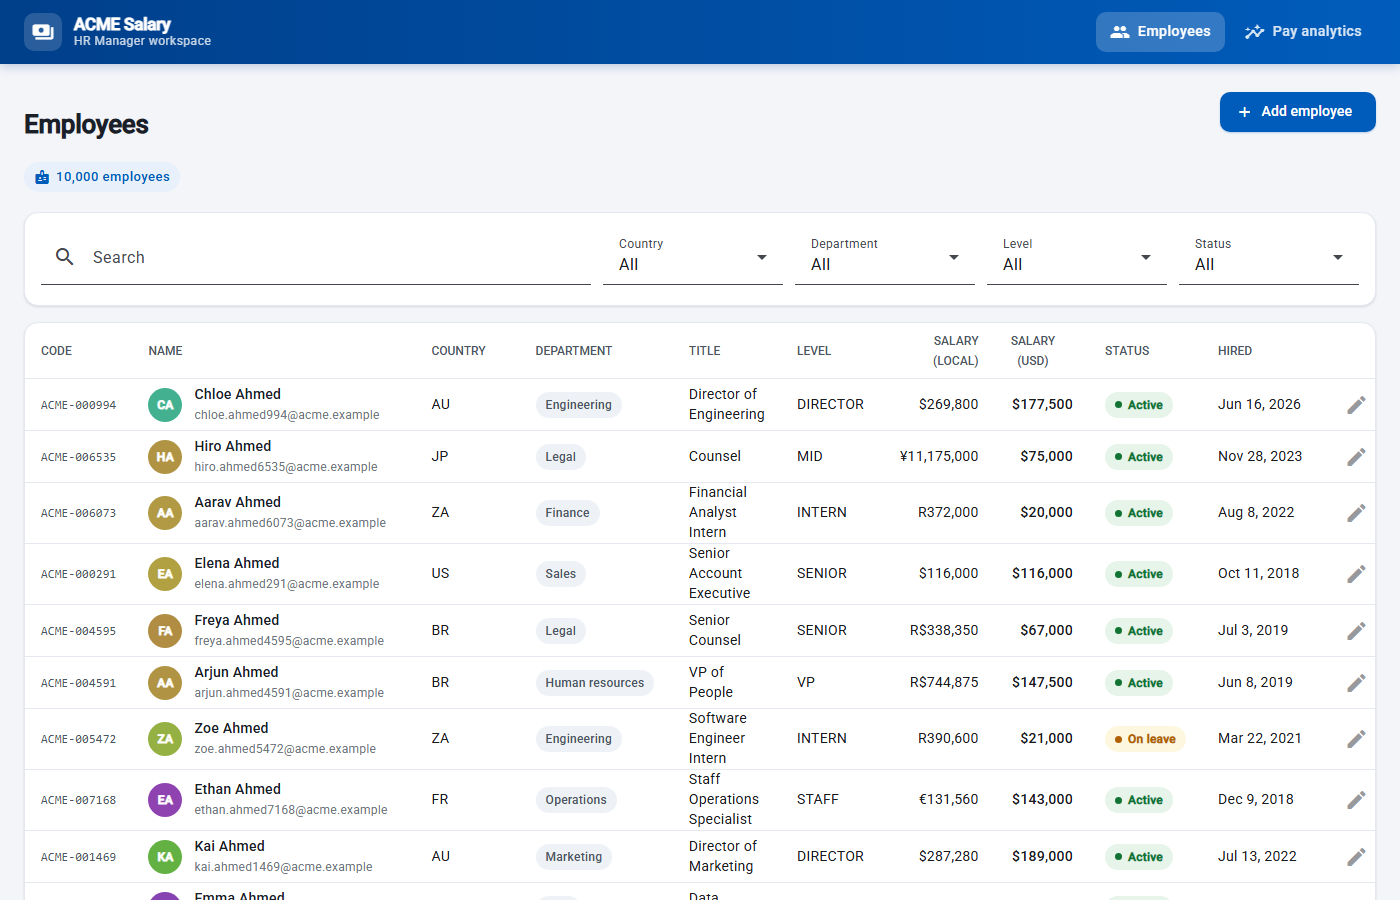
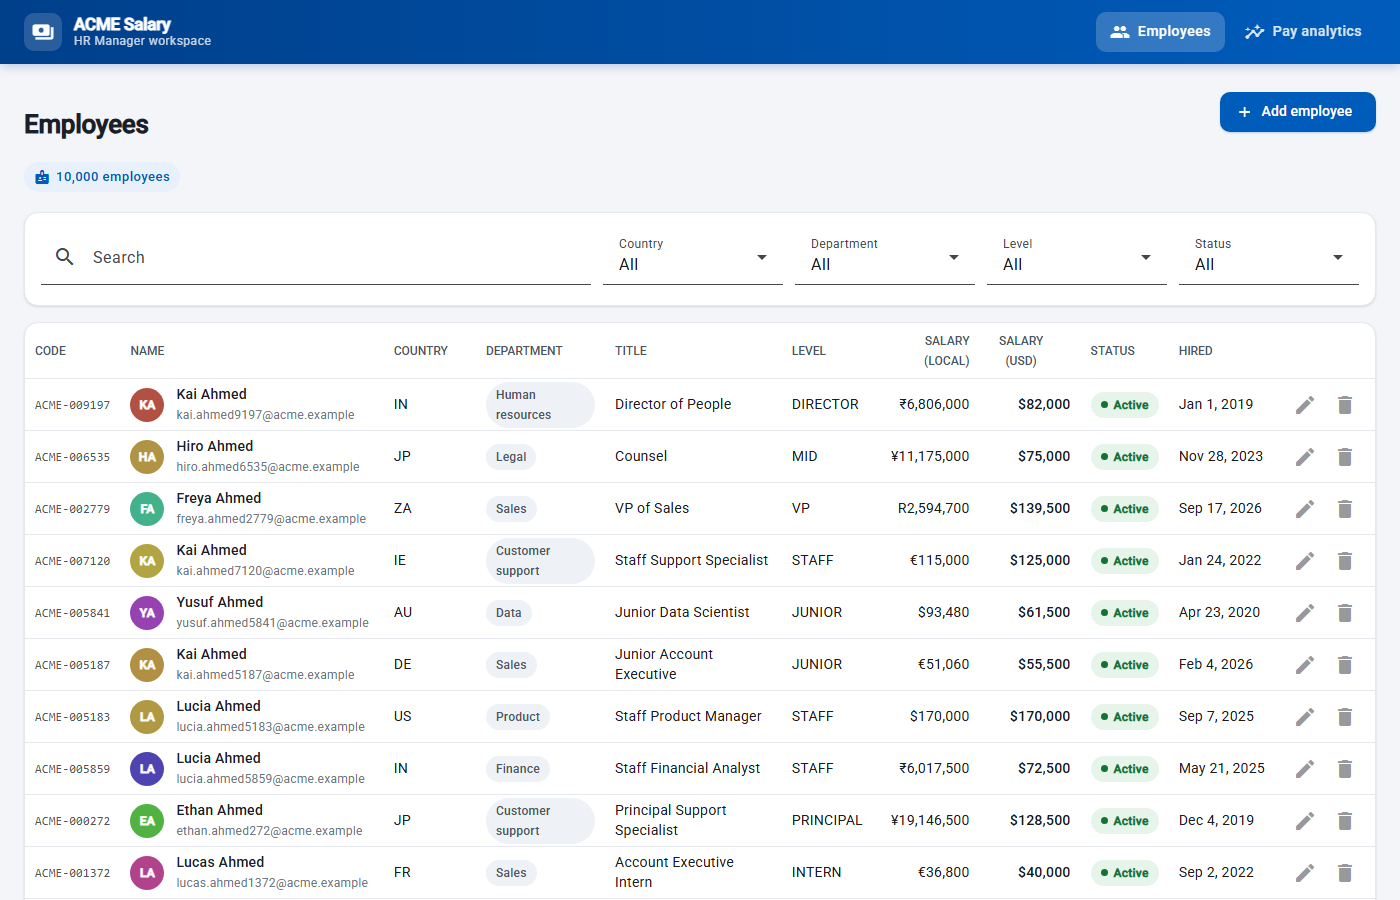
style(frontend): fit employee table at 1400px, refresh screenshots
- Tighter cell padding, capped email width, min width on title and
  actions so all 11 columns fit without clipping the row actions
- Department/status labels humanized via ReplaceUnderscorePipe (+ spec)
- Component style budget raised to 4 kB warn / 8 kB error

diff --git a/frontend/src/app/employees/employee-list.component.scss b/frontend/src/app/employees/employee-list.component.scss
@@ -47,10 +47,21 @@
   border: 1px solid var(--line);
   border-radius: var(--radius);
   overflow: hidden;
+  overflow-x: auto;
   box-shadow: var(--shadow-sm);
 
   table {
     width: 100%;
+  }
+
+  .mat-mdc-header-cell,
+  .mat-mdc-cell {
+    padding-left: 10px;
+    padding-right: 10px;
+  }
+
+  .title-cell {
+    min-width: 150px;
   }
 
   .num {
@@ -96,6 +107,10 @@
   .muted {
     color: var(--ink-3);
     font-size: 12px;
+    max-width: 210px;
+    overflow: hidden;
+    text-overflow: ellipsis;
+    white-space: nowrap;
   }
 
   .usd {
@@ -105,6 +120,7 @@
   .actions {
     white-space: nowrap;
     text-align: right;
+    min-width: 88px;
 
     button {
       opacity: 0.55;
@@ -131,7 +147,6 @@
   font-weight: 500;
   background: #eef1f6;
   color: var(--ink-2);
-  white-space: nowrap;
 }
 
 .status {

diff --git a/frontend/src/app/employees/employee-list.component.html b/frontend/src/app/employees/employee-list.component.html
@@ -102,7 +102,7 @@
 
     <ng-container matColumnDef="jobTitle">
       <th mat-header-cell *matHeaderCellDef>Title</th>
-      <td mat-cell *matCellDef="let e">{{ e.jobTitle }}</td>
+      <td mat-cell *matCellDef="let e" class="title-cell">{{ e.jobTitle }}</td>
     </ng-container>
 
     <ng-container matColumnDef="level">
